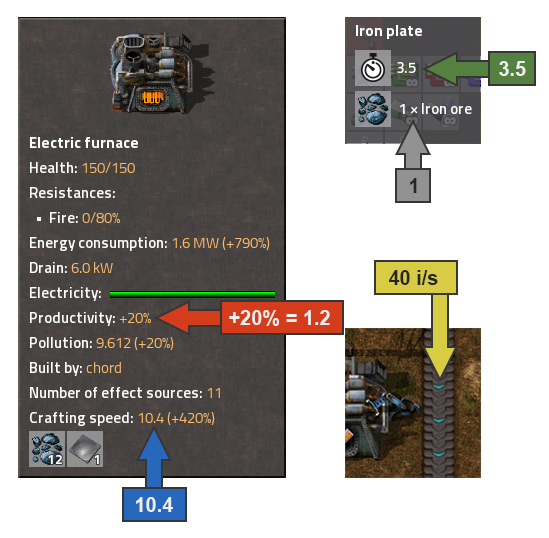
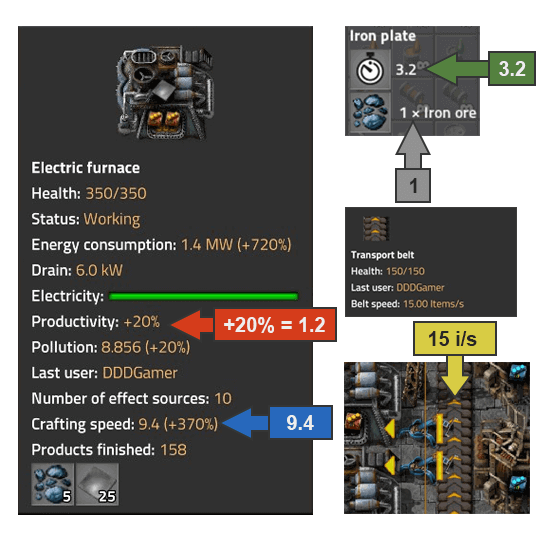
#132 Update Module Beacon Section (#134)
* New optimized Image
* Change default "Item Consumption Rate" to 45 (blue belt)

diff --git a/src/app/views/cheat-sheets/modules-and-beacons/modules-and-beacons.component.ts b/src/app/views/cheat-sheets/modules-and-beacons/modules-and-beacons.component.ts
@@ -27,7 +27,7 @@ export class ModulesAndBeaconsComponent implements OnInit {
 
     calcMachines: ThroughputCalc = {
         machinesToFillBelt: 1,
-        itemConsumptionRate: 40,
+        itemConsumptionRate: 45,
         recipeBaseCraftTime: 1,
         itemsPerCraft: 1,
         machineCraftSpeed: 0.75,
